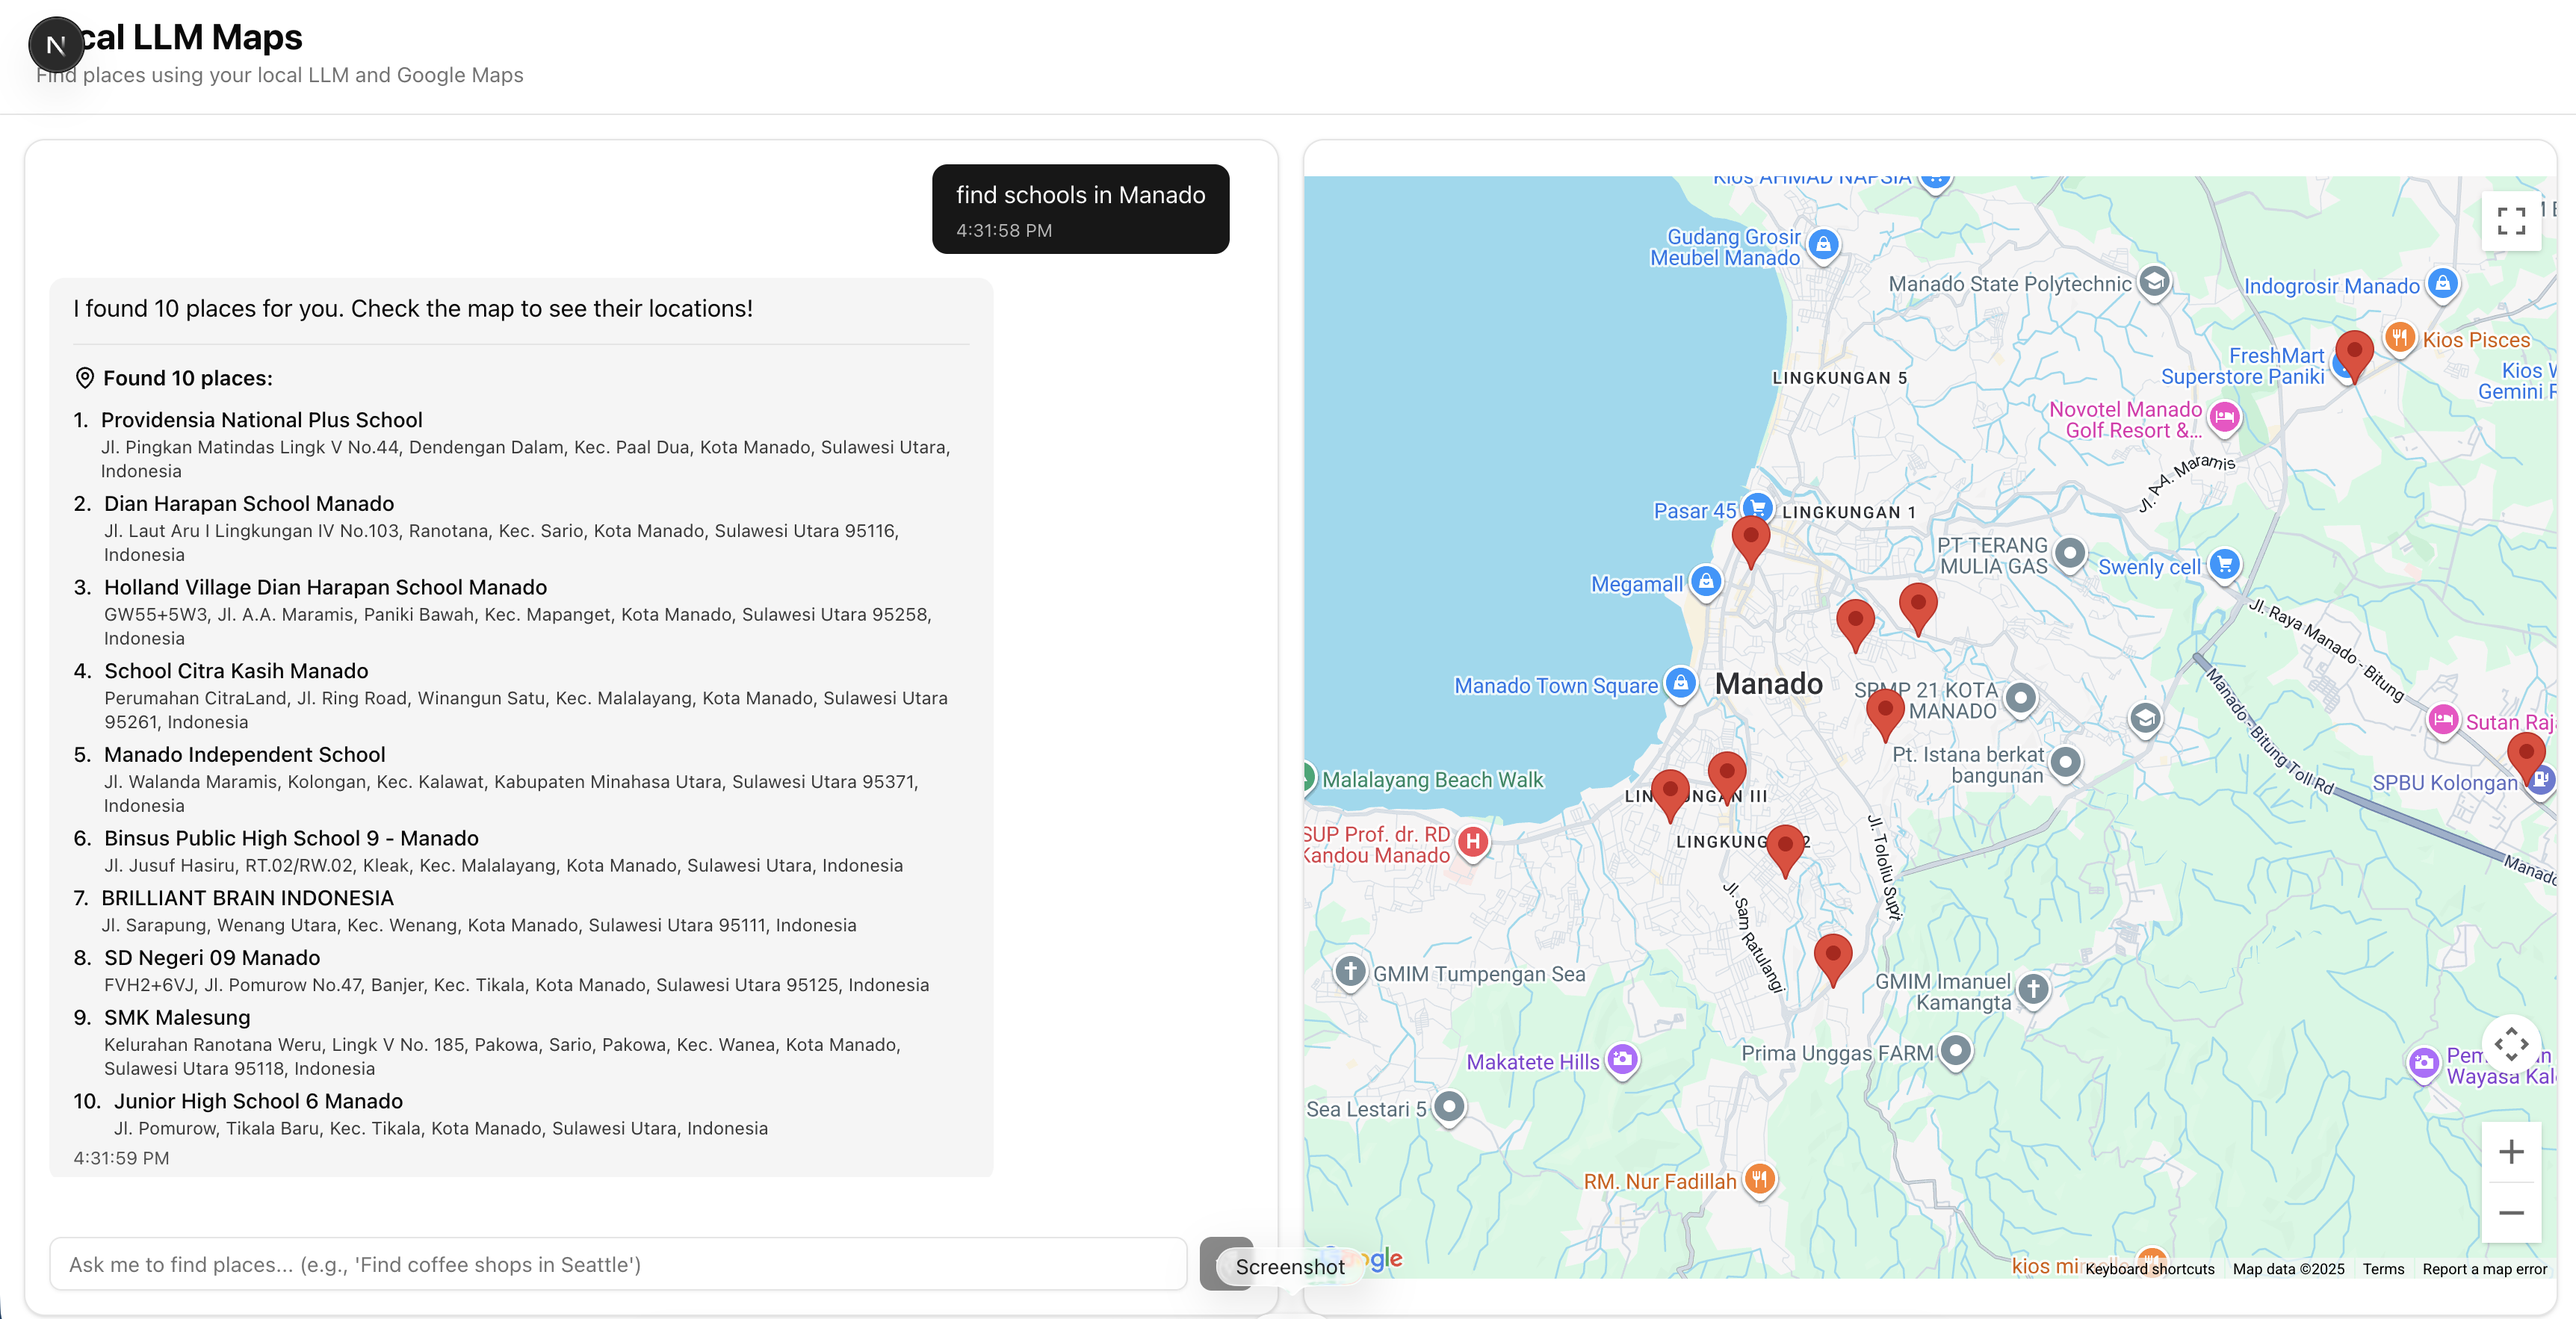
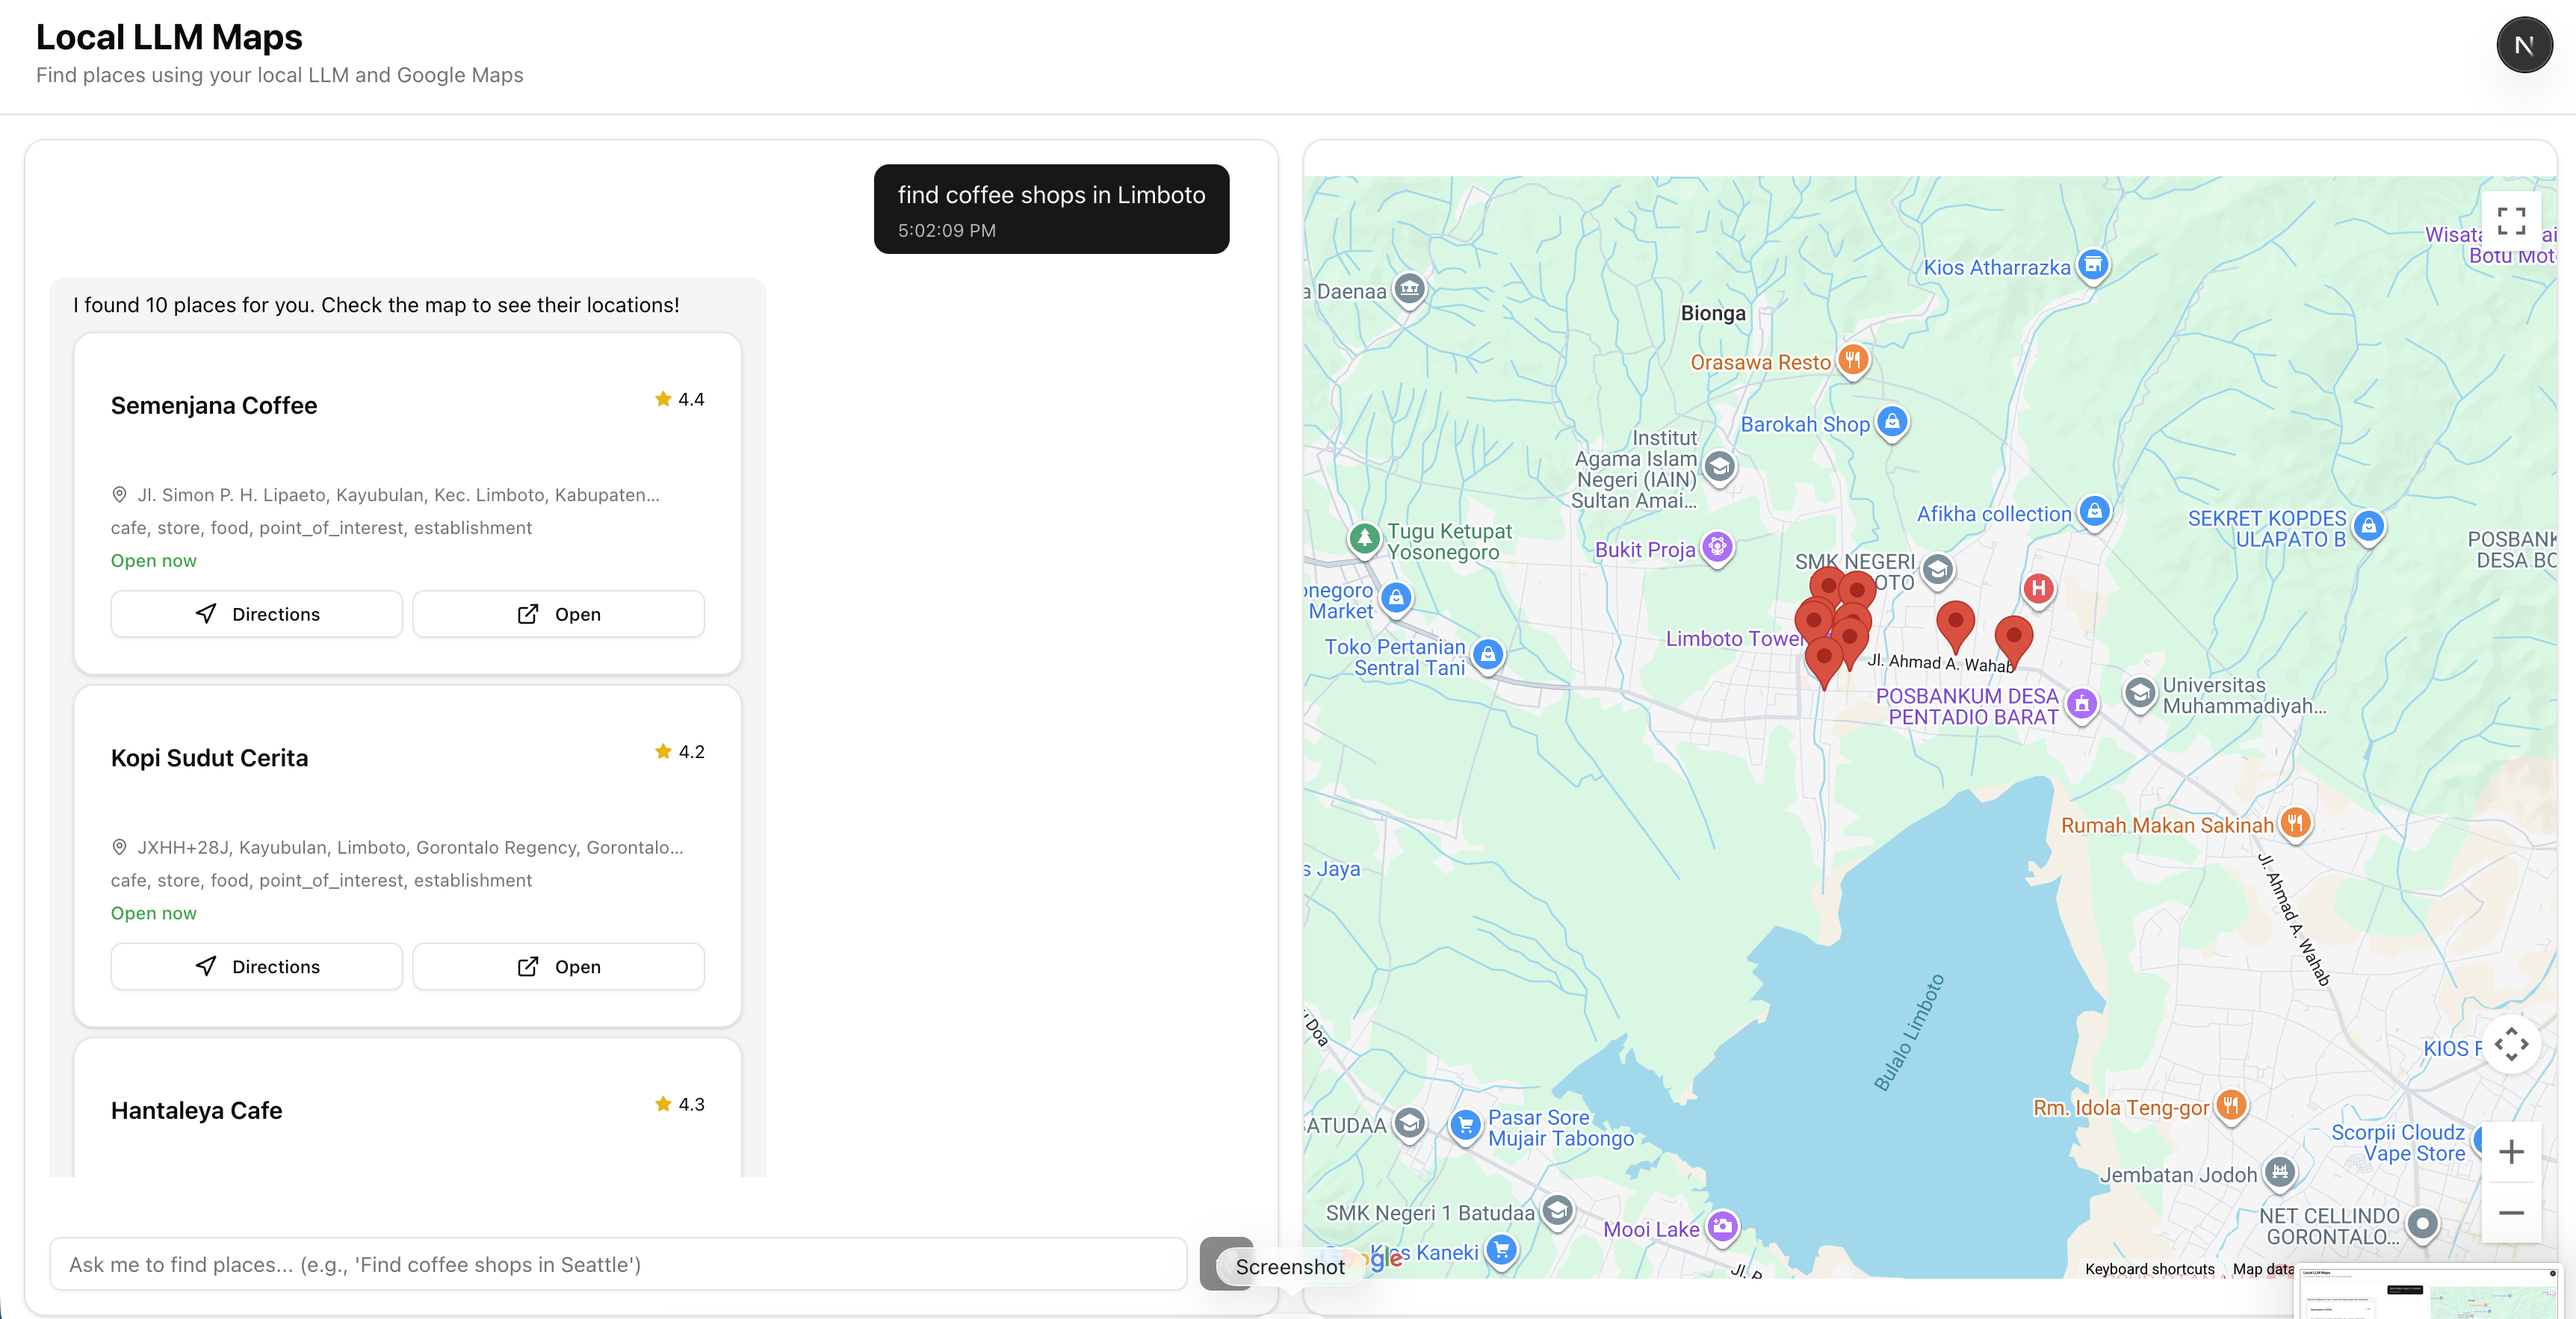
Fix map zoom to show city-level view for search results
Change zoom behavior for clustered locations:
- When all results are in same area, use zoom level 12 (city-wide view)
- Previously used zoom 13-15 which showed too much or too little context
- Zoom 12 provides perfect city-level view showing all locations clearly
- Better user experience when searching within a specific city

Example: "Find coffee in Gorontalo" now shows the whole city
instead of just regional view or over-zoomed street view.

🤖 Generated with [Claude Code](https://claude.com/claude-code)

diff --git a/src/lib/maps/google-maps.ts b/src/lib/maps/google-maps.ts
@@ -75,9 +75,13 @@ export class GoogleMapsUtils {
     else if (maxDiff >= 0.03) zoom = 14;
     else zoom = 15;
 
-    // Limit maximum zoom to 13 (city/neighborhood level)
-    // This prevents over-zooming when locations are very close
-    return Math.min(zoom, 13);
+    // For very small areas (all results in same city), use a reasonable city zoom
+    // Instead of zooming in too close, show the whole city area
+    if (zoom >= 14) {
+      return 12; // City-wide view
+    }
+
+    return zoom;
   }
 
   /**
